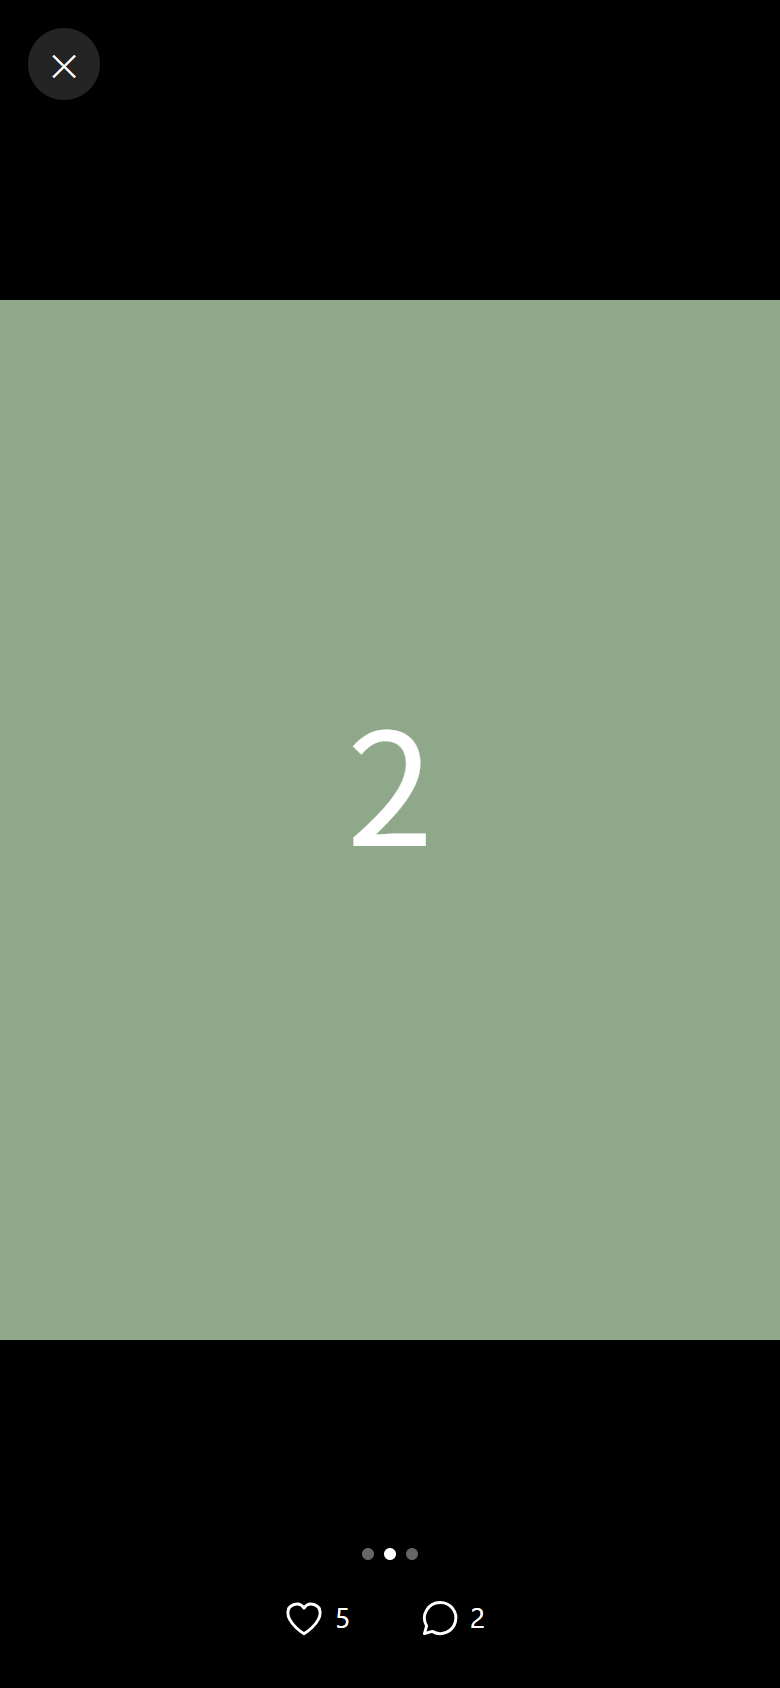
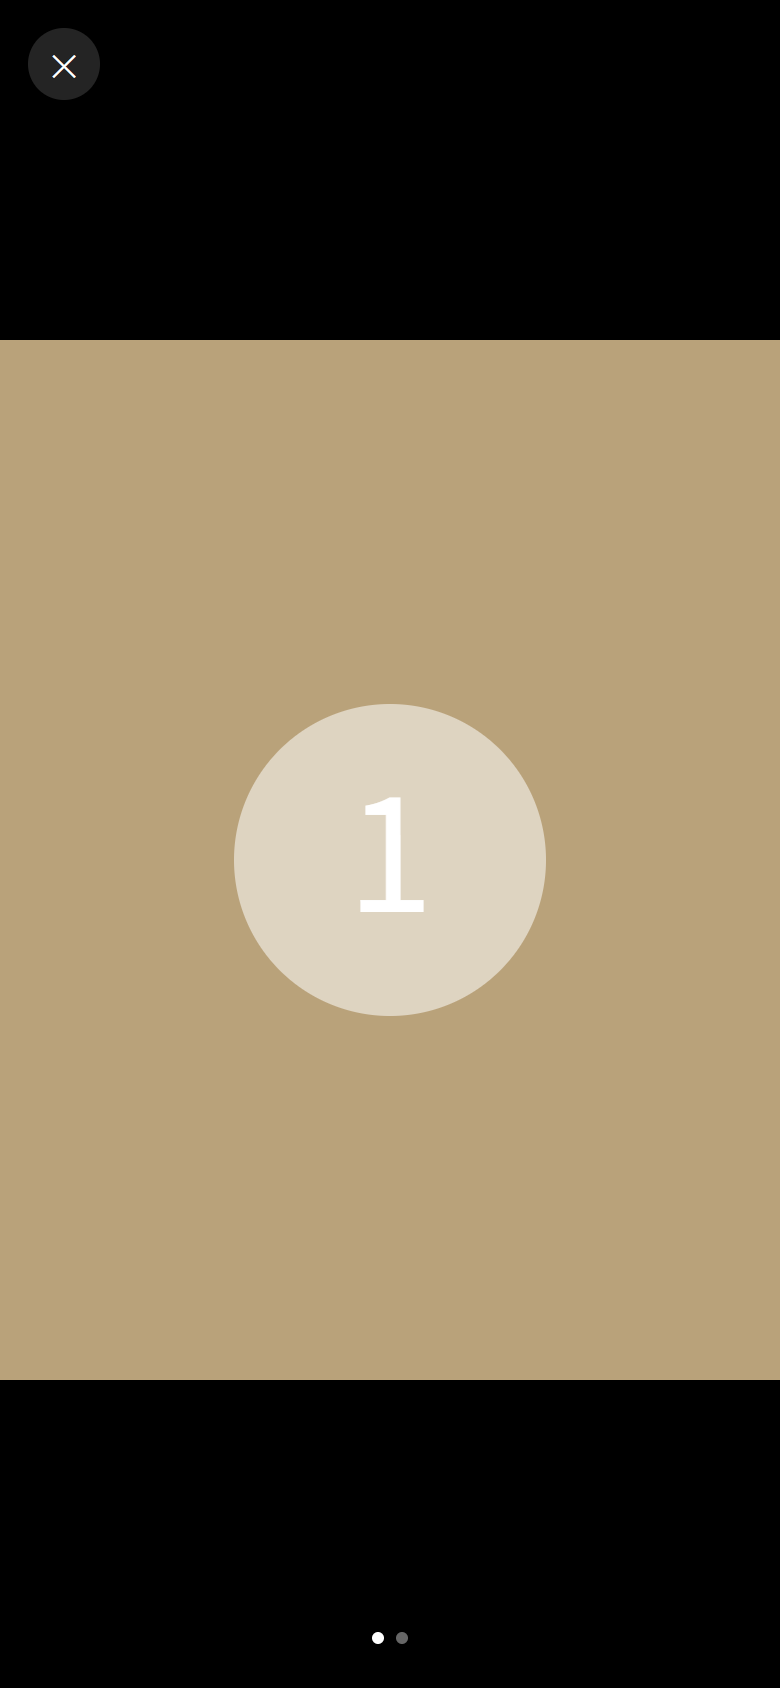
사진 전체 화면: 아래 정보 없이 점만 + 두 손가락·두 번 눌러 확대

diff --git a/docs/index.html b/docs/index.html
@@ -924,7 +924,7 @@ body.icons .ico[data-ico="ruler"]{background-image:url(icons/ruler.svg)}
 #phv .phtop{flex:none;display:flex;justify-content:space-between;padding:max(14px,env(safe-area-inset-top)) 14px 6px}#phv .phtop button{width:36px;height:36px;border-radius:50%;border:0;background:rgba(255,255,255,.14);color:#fff;font-size:1rem;cursor:pointer;padding:0}
 #phv .phtrack{flex:1;min-height:0;display:flex;overflow-x:auto;overflow-y:hidden;scroll-snap-type:x mandatory;scrollbar-width:none;-webkit-overflow-scrolling:touch}#phv .phtrack::-webkit-scrollbar{display:none}
 #phv .phs{flex:0 0 100%;scroll-snap-align:center;scroll-snap-stop:always;display:flex;align-items:center;justify-content:center;min-width:0}#phv .phs img{max-width:100%;max-height:100%;object-fit:contain;display:block}
-#phv .phdots{flex:none;display:flex;gap:5px;justify-content:center;min-height:6px;margin:10px 0 0}#phv .phdots i{width:6px;height:6px;border-radius:50%;background:#fff;opacity:.4}#phv .phdots i.on{opacity:1}
+#phv .phdots{flex:none;display:flex;gap:6px;justify-content:center;min-height:6px;margin:12px 0 0;padding-bottom:max(22px,env(safe-area-inset-bottom))}#phv .phs{overflow:hidden}#phv .phs img{transform-origin:center center;will-change:transform}#phv .phtrack{touch-action:pan-x}#phv .phdots i{width:6px;height:6px;border-radius:50%;background:#fff;opacity:.4}#phv .phdots i.on{opacity:1}
 #phv .phacts{flex:none;justify-content:center;gap:28px;margin:0;padding:12px 0 max(18px,env(safe-area-inset-bottom));color:#fff}#phv .phacts button{color:#fff;font-size:14px}#phv .phacts button.on{color:var(--tred,#e0245e)}#phv .phacts button svg{width:22px;height:22px}
 body.kb #nav{display:none!important}
 </style>
@@ -3919,6 +3919,22 @@ async function toggleRepost(id, btn){
   document.addEventListener('focusout', ()=>{ clearTimeout(t); t=setTimeout(()=>{ if(!isText(document.activeElement)) document.body.classList.remove('kb'); }, 120); }); })();
 // 사진 전체 화면: 누른 사진이 속한 묶음(같은 글의 사진들)을 옆으로 넘겨 본다. 글의 사진이면 아래에 좋아요·댓글
 let phvPost=null, phvDirty=false;
+// 확대: 두 손가락으로 벌리기(1~4배) · 두 번 누르기(2.5배 ↔ 원래) · 확대 중에는 한 손가락으로 옮기기. 다음 사진으로 넘기면 원래대로
+let phvZ={ s:0 };
+function phvZoomBind(tr){
+  let img=null, sc=1, tx=0, ty=0, d0=0, s0=1, px=0, py=0, mode='', lastTap=0;
+  const apply=()=>{ if(!img) return; const bw=tr.clientWidth, bh=tr.clientHeight, w=img.offsetWidth*sc, h=img.offsetHeight*sc; const mx=Math.max(0,(w-bw)/2), my=Math.max(0,(h-bh)/2); tx=Math.max(-mx,Math.min(mx,tx)); ty=Math.max(-my,Math.min(my,ty));
+    img.style.transform = sc>1 ? `translate(${tx}px,${ty}px) scale(${sc})` : ''; phvZ.s = sc>1 ? sc : 0; tr.style.overflowX = sc>1 ? 'hidden' : 'auto'; img.style.touchAction = sc>1 ? 'none' : ''; };
+  const reset=()=>{ sc=1; tx=0; ty=0; apply(); img=null; }; phvZ.reset=reset;
+  const cur=()=>{ const i=Math.round(tr.scrollLeft/Math.max(1,tr.clientWidth)); return tr.children[i]?.querySelector('img')||null; };
+  const dist=t=>Math.hypot(t[0].clientX-t[1].clientX, t[0].clientY-t[1].clientY);
+  tr.addEventListener('touchstart', e=>{ if(e.touches.length===2){ if(!img) img=cur(); d0=dist(e.touches); s0=sc; mode='pinch'; }
+    else if(e.touches.length===1){ px=e.touches[0].clientX; py=e.touches[0].clientY; mode = sc>1 ? 'pan' : ''; } }, {passive:true});
+  tr.addEventListener('touchmove', e=>{ if(mode==='pinch' && e.touches.length===2){ e.preventDefault(); sc=Math.max(1, Math.min(4, s0*dist(e.touches)/Math.max(1,d0))); apply(); }
+    else if(mode==='pan' && e.touches.length===1){ e.preventDefault(); const c=e.touches[0]; tx+=c.clientX-px; ty+=c.clientY-py; px=c.clientX; py=c.clientY; apply(); } }, {passive:false});
+  tr.addEventListener('touchend', e=>{ if(e.touches.length) return; if(mode==='pinch'){ if(sc<1.08){ reset(); } mode=''; return; }
+    const now=Date.now(); const c=e.changedTouches[0]; if(Math.hypot(c.clientX-px, c.clientY-py)<12){ if(now-lastTap<300){ lastTap=0; if(sc>1) reset(); else { img=cur(); sc=2.5; tx=0; ty=0; apply(); } } else lastTap=now; } mode=''; }, {passive:true});
+}
 function openPhoto(u){
   const t = (typeof event!=='undefined' && event && event.target && event.target.tagName==='IMG') ? event.target : null;
   let list=[u], idx=0;
@@ -3927,15 +3943,15 @@ function openPhoto(u){
   const p = pid ? (findPost(pid) || (typeof curPost!=='undefined' && curPost && curPost.id===pid ? curPost : null)) : null; phvPost = p ? pid : null; phvDirty=false;
   let w=$('#phv'); if(!w){ w=document.createElement('div'); w.id='phv'; document.body.appendChild(w);
     let y0=null,x0=null; w.addEventListener('touchstart',e=>{ if(e.touches.length===1){ y0=e.touches[0].clientY; x0=e.touches[0].clientX; } else y0=null; },{passive:true});
-    w.addEventListener('touchend',e=>{ if(y0===null) return; const c=e.changedTouches[0]; const dy=c.clientY-y0, dx=Math.abs(c.clientX-x0); y0=null; if(dy>90 && dx<60) closePhoto(); },{passive:true});
+    w.addEventListener('touchend',e=>{ if(y0===null) return; const c=e.changedTouches[0]; const dy=c.clientY-y0, dx=Math.abs(c.clientX-x0); y0=null; if(dy>90 && dx<60 && !phvZ.s) closePhoto(); },{passive:true});
     document.addEventListener('keydown',e=>{ if(e.key==='Escape' && $('#phv')?.classList.contains('on')) closePhoto(); }); }
   w.innerHTML = `<div class="phtop"><button type="button" aria-label="닫기" onclick="closePhoto()">✕</button></div>
     <div class="phtrack" id="phTrack">${list.map(x=>`<div class="phs"><img src="${esc(x)}" alt="" referrerpolicy="no-referrer"></div>`).join('')}</div>
-    <div class="phdots" id="phDots">${list.length>1?list.map((_,i)=>`<i class="${i===idx?'on':''}"></i>`).join(''):''}</div>
-    ${p?`<div class="acts phacts"><button class="${likedSet.has(p.id)?'on':''}" onclick="phvDirty=true;toggleLike('${p.id}',this)">${ICON.heart}<span>${p.like_count||''}</span></button><button onclick="phvReplies()">${ICON.reply}<span>${p.reply_count||''}</span></button></div>`:''}`;
+    <div class="phdots" id="phDots">${list.length>1?list.map((_,i)=>`<i class="${i===idx?'on':''}"></i>`).join(''):''}</div>`;
   w.classList.add('on');
   const tr=$('#phTrack'); tr.scrollLeft = idx*tr.clientWidth;
   tr.onscroll=()=>{ const i=Math.round(tr.scrollLeft/Math.max(1,tr.clientWidth)); [...$('#phDots').children].forEach((d,k)=>d.classList.toggle('on',k===i)); };
+  phvZ={ s:0 }; phvZoomBind(tr);
 }
 function closePhoto(){ const w=$('#phv'); if(!w) return; w.classList.remove('on'); w.innerHTML='';
   if(phvDirty && phvPost){ const p=findPost(phvPost), g=vEl('pg-'+phvPost); if(p && g) g.outerHTML=postGroup(p); } phvPost=null; phvDirty=false; }

diff --git a/CLAUDE.md b/CLAUDE.md
@@ -208,7 +208,7 @@
 - **글 화면에서 댓글 입력칸이 댓글을 가리던 오류 수정(2026-11-14 대표 제보, 1.0.6 스토어 앱에 있는 오류 — 웹 즉시·스토어 앱 1.0.7 부터)**: 1.0.6 에서 `#postBody{min-height:0}` 만 넣고 스크롤 주체를 안 바꿔, 글+댓글이 화면보다 길면 댓글이 상자 밖으로 넘치고 입력칸(`#replyBar`)이 글과 함께 밀려 올라가 댓글 위에 겹쳤다. 수정: `#v-post{overflow:hidden}` + `#postBody{flex:1 1 0;overflow-y:auto}` — 입력칸은 항상 화면 맨 아래, 글·댓글만 스크롤. 확인 scratchpad `shots/postlayout.mjs`(치수: 입력칸 781~844 고정). 목록의 💬 펼침은 원래 정상
 - **글을 눌러도 💬 와 같은 펼침(2026-11-14 대표 지시: 어디를 눌러도 같은 모양 — 웹 즉시·스토어 앱 1.0.7 부터)**: 목록의 글 카드를 누르면 예전에는 글 화면(`openPost`)으로 갔고 💬 만 그 자리에서 펼쳐졌다 → 이제 카드 본문도 `postTap(id)` → `toggleReplies` 로 **그 자리에서 댓글이 펼쳐진다**. 이미 펼쳐져 있으면 그대로(접기는 💬·'댓글 접기'). 글 화면(`v-post`, 대댓글 묶음 표시)은 알림·공유 링크·프로필의 댓글 줄처럼 목록 밖에서 들어올 때만 열린다. **목록에서 글을 누르면 글 화면으로 보내는 방식으로 되돌리지 말 것.** 확인 scratchpad `shots/posttap.mjs`
 - **'펼침'에도 대댓글(2026-11-14 대표 지시 — 목록에서 글·💬 를 눌러 댓글이 아래로 펼쳐지는 방식을 '펼침'이라 부른다, 1.0.7 부터)**: `postGroup` 이 댓글을 윗댓글 + 그 아래 들여쓴 묶음(`.rsub`, `posts.reply_to` 기준)으로 그린다. 댓글마다 [댓글 달기](`inlineReplyTo(글, 댓글)`) → 입력칸 위 `.rto` '○○ 님에게 댓글 다는 중 ✕' + 그 댓글 연한 표시, 대댓글에 달면 같은 윗댓글 아래로 가고 @닉네임을 미리 적음(글 화면 `setReplyTo` 와 같은 규칙). 게시 때 `reply_to` 를 함께 저장(`inlineTarget`). 확인: 스테이징 demo1 에 예시 글·댓글을 화면에만 넣고 저장 호출을 가로채 확인(scratchpad `shots/inlinenested.mjs`, 캡처 `resources/mockups/inline_nested_20261114_2.png`) — 실제로 올려 보는 것은 대표 확인 필요
-- **쓰레드처럼 다듬기(2026-11-14 대표 확정 시안 — 모양만, 누르면 펼치는 방식은 그대로. 1.0.7)**: 대표가 쓰레드 화면 영상을 보여 주고 "글씨체·간격이 가장 세련됐다" → 실측해 맞춤. `<style>` 맨 끝 '쓰레드처럼 다듬기' 블록(앞의 규칙을 덮어씀 — 되돌리려면 이 블록만 지우면 됨): 글 카드 왼쪽 여백 16→**8px**(화면 끝→사진 1.3mm), 프로필 사진 40→**44px**, 사진→글 12→**9px**, 오른쪽 13px · 이름 15px·시간 13.5px·동네/단계는 둘째 줄 12.5px · 본문 15px/1.45 · 아이콘 19px 가는 선 · 글 사이 구분선 `--line2:#F0EEE8`(더 연하게) · 사진 넘겨 보기 높이 260 · 작품 인증 카드는 한 줄형으로 작게. 펼침(`.rthread`)은 글 시작 위치(61px)에 맞추고 왼쪽 세로선을 없앰, 댓글 14.5px·사진 26px, 대댓글 3개 이상이면 1개만 보이고 **'댓글 N개 더 보기'**(`rsubOpen`), 글쓴이의 댓글에 '글쓴이' 표시, 입력칸은 회색 둥근 줄. **사진 전체 화면(같은 날 추가)**: `openPhoto(u)` 가 시트 대신 검은 전체 화면 `#phv` 를 연다 — 누른 사진이 속한 묶음(같은 부모 안의 img 들, 누른 `event.target` 으로 찾음)을 **옆으로 밀어 넘겨 보고**(scroll-snap, 점 표시), ✕·아래로 밀기·Esc·안드로이드 뒤로 가기로 닫음(`closePhoto`). 글의 사진이면 아래에 좋아요(누르면 실제 좋아요, 닫을 때 목록 갱신)·댓글 수(누르면 닫고 그 글의 댓글 펼침 `phvReplies`). 채팅·가게 소식 사진 등 글이 아닌 곳은 사진만. 확인 scratchpad `shots/photoview.mjs`(실제 터치 밀기), 캡처 `resources/mockups/photo_viewer_20261114.png`. 시안 `resources/mockups/threads_style_20261114.png`, 만든 화면 `threads_built_20261114_1.png`. 회원 연령대를 생각해 글씨가 작다는 의견이 나오면 이 블록의 글씨 크기만 한 치수 키울 것
+- **쓰레드처럼 다듬기(2026-11-14 대표 확정 시안 — 모양만, 누르면 펼치는 방식은 그대로. 1.0.7)**: 대표가 쓰레드 화면 영상을 보여 주고 "글씨체·간격이 가장 세련됐다" → 실측해 맞춤. `<style>` 맨 끝 '쓰레드처럼 다듬기' 블록(앞의 규칙을 덮어씀 — 되돌리려면 이 블록만 지우면 됨): 글 카드 왼쪽 여백 16→**8px**(화면 끝→사진 1.3mm), 프로필 사진 40→**44px**, 사진→글 12→**9px**, 오른쪽 13px · 이름 15px·시간 13.5px·동네/단계는 둘째 줄 12.5px · 본문 15px/1.45 · 아이콘 19px 가는 선 · 글 사이 구분선 `--line2:#F0EEE8`(더 연하게) · 사진 넘겨 보기 높이 260 · 작품 인증 카드는 한 줄형으로 작게. 펼침(`.rthread`)은 글 시작 위치(61px)에 맞추고 왼쪽 세로선을 없앰, 댓글 14.5px·사진 26px, 대댓글 3개 이상이면 1개만 보이고 **'댓글 N개 더 보기'**(`rsubOpen`), 글쓴이의 댓글에 '글쓴이' 표시, 입력칸은 회색 둥근 줄. **사진 전체 화면(같은 날 추가)**: `openPhoto(u)` 가 시트 대신 검은 전체 화면 `#phv` 를 연다 — 누른 사진이 속한 묶음(같은 부모 안의 img 들, 누른 `event.target` 으로 찾음)을 **옆으로 밀어 넘겨 보고**(scroll-snap, 점 표시), ✕·아래로 밀기·Esc·안드로이드 뒤로 가기로 닫음(`closePhoto`). **아래에는 점만 둔다(같은 날 대표 결정: 사진을 확대해 볼 수 있으니 사진 위·아래에 어떤 정보도 넣지 말 것 — 좋아요·댓글 줄은 뺌).** 확대(`phvZoomBind`): 두 손가락 벌리기 1~4배 · 두 번 누르기 2.5배↔원래 · 확대 중 한 손가락으로 옮기기, 확대 중에는 넘기기·아래로 밀어 닫기가 멈춤. 확인 scratchpad `shots/photoview.mjs`(실제 터치 밀기), 캡처 `resources/mockups/photo_viewer_20261114.png`. 시안 `resources/mockups/threads_style_20261114.png`, 만든 화면 `threads_built_20261114_1.png`. 회원 연령대를 생각해 글씨가 작다는 의견이 나오면 이 블록의 글씨 크기만 한 치수 키울 것
 - **1.0.7 = TestFlight 확인용으로 먼저 푸시(2026-11-14 대표: "앱에서 구동해 보련다, 스토어에는 올리지 말고")**: 버전 1.0.7 / versionCode 15 로 올려 main 푸시(iOS 빌드 → TestFlight). **스토어 심사 제출은 하지 않음 — 대표가 "1.0.7 올려줘(스토어)"라고 할 때 제출.** Android .aab 는 아직 안 만듦. 1.0.7 에 들어간 것: 접속 기록·check_in 복구, 댓글 사진 버튼 삭제, '댓글' 말 통일, 채팅 보관·나가기, 외부 링크 오류 수정, 공방·작가 화면 개편(팔로우·문의), 가게 소식 단순화, 참가비 모임 신청·확정, 글 화면 입력칸 겹침 수정, 글을 눌러도 펼침, 펼침 대댓글, 쓰레드처럼 다듬기
 - **자판이 올라오면 하단 메뉴 숨김(2026-11-14 대표 제보, 1.0.7)**: 펼침에서 댓글을 쓰려고 하면 하단 메뉴(`#nav`)가 자판 바로 위에 떠서 화면을 가렸다 → 글자 칸에 커서가 있는 동안 `body.kb`(focusin/focusout)로 `#nav` 를 숨김. 모든 화면의 글자 칸에 적용(검색·글쓰기 포함)
 - **광고 소재 1차(2026-11-08)**: `resources/ads/2026-11_1차/` — 릴스 R1 뜨친찾기(18s)·R2 모임열기(13s)·R3 내뜨개단계(14s, 모두 1080×1920, 끝 3초 엔드카드) + 정지 S1/S2(story 1080×1920·feed 1080×1080). 제작: 대표 PC VM에 Playwright(`~/pw`, libXdamage 로컬 추출로 구동) → demo1 로그인 → 10fps 스크린샷 캡처(1080×1920) → 클라우드에서 ffmpeg 합성(폰 프레임·자막 NotoSansCJK·엔드카드). **개인정보**: 지도 핀 얼굴 숨김·이름 '뜨개 이웃', 프로필 닉네임 MutationObserver 로 '뜨개이웃' 치환, 아바타 블러. 친구 신청·모임 게시·기법 저장 등 **DB 쓰기는 일절 안 함**(R2 는 openMeetForm 가드 우회용으로 myProfile.cert_count 를 클라이언트에서만 1로). 광고 계획: knitup 프로젝트 문서 `knitup_뜨개동네_Meta광고_1차계획_20261108.md`(서울+고양, 일 ₩30,000, Android/iOS 세트 2개, IG+FB 릴스·스토리·피드). 현황 참고: 공개 프로필 6명(전부 일산 주엽2동·백석1동), 예정 모임 0 — 광고 전 실제 모임 1~2개 개설 권장
